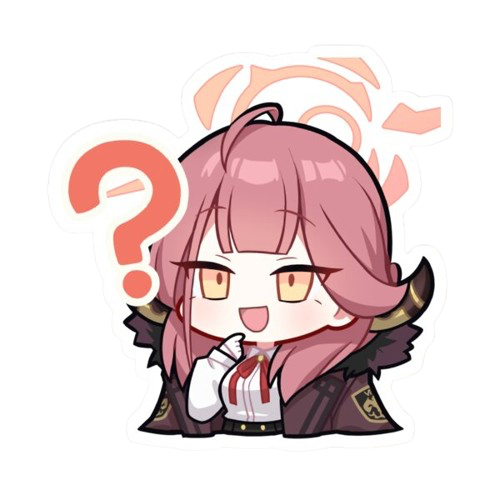
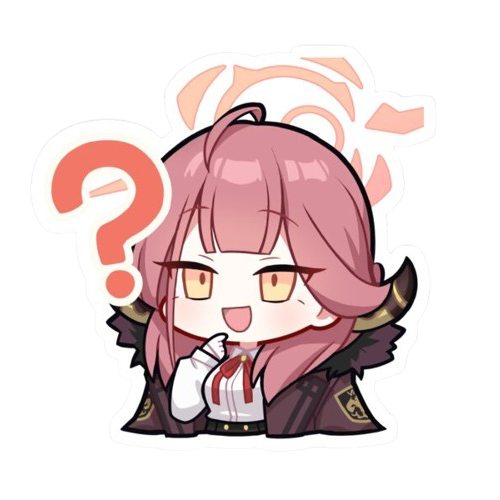
commit

Changed region(s): [[0.09, 0.09, 0.9, 0.9]]

diff --git a/lib/components/custom_dialog.dart b/lib/components/custom_dialog.dart
@@ -21,16 +21,10 @@ class CustomDialog extends StatelessWidget {
           child: Column(
             mainAxisAlignment: MainAxisAlignment.center,
             children: [
-              Row(
-                mainAxisAlignment: MainAxisAlignment.center,
-                children: [
-                  SizedBox(
-                    width: MediaQuery.of(context).size.width * 0.502,
-                    height: MediaQuery.of(context).size.height * 0.232,
-                    child: Image.asset('assets/images/aru_sticker.png'),
-                  ),
-                  SizedBox(width: MediaQuery.of(context).size.width * 0.038),
-                ],
+              SizedBox(
+                width: MediaQuery.of(context).size.width * 0.502,
+                height: MediaQuery.of(context).size.height * 0.232,
+                child: Image.asset('assets/images/aru_sticker.png'),
               ),
               Text(
                 message,
